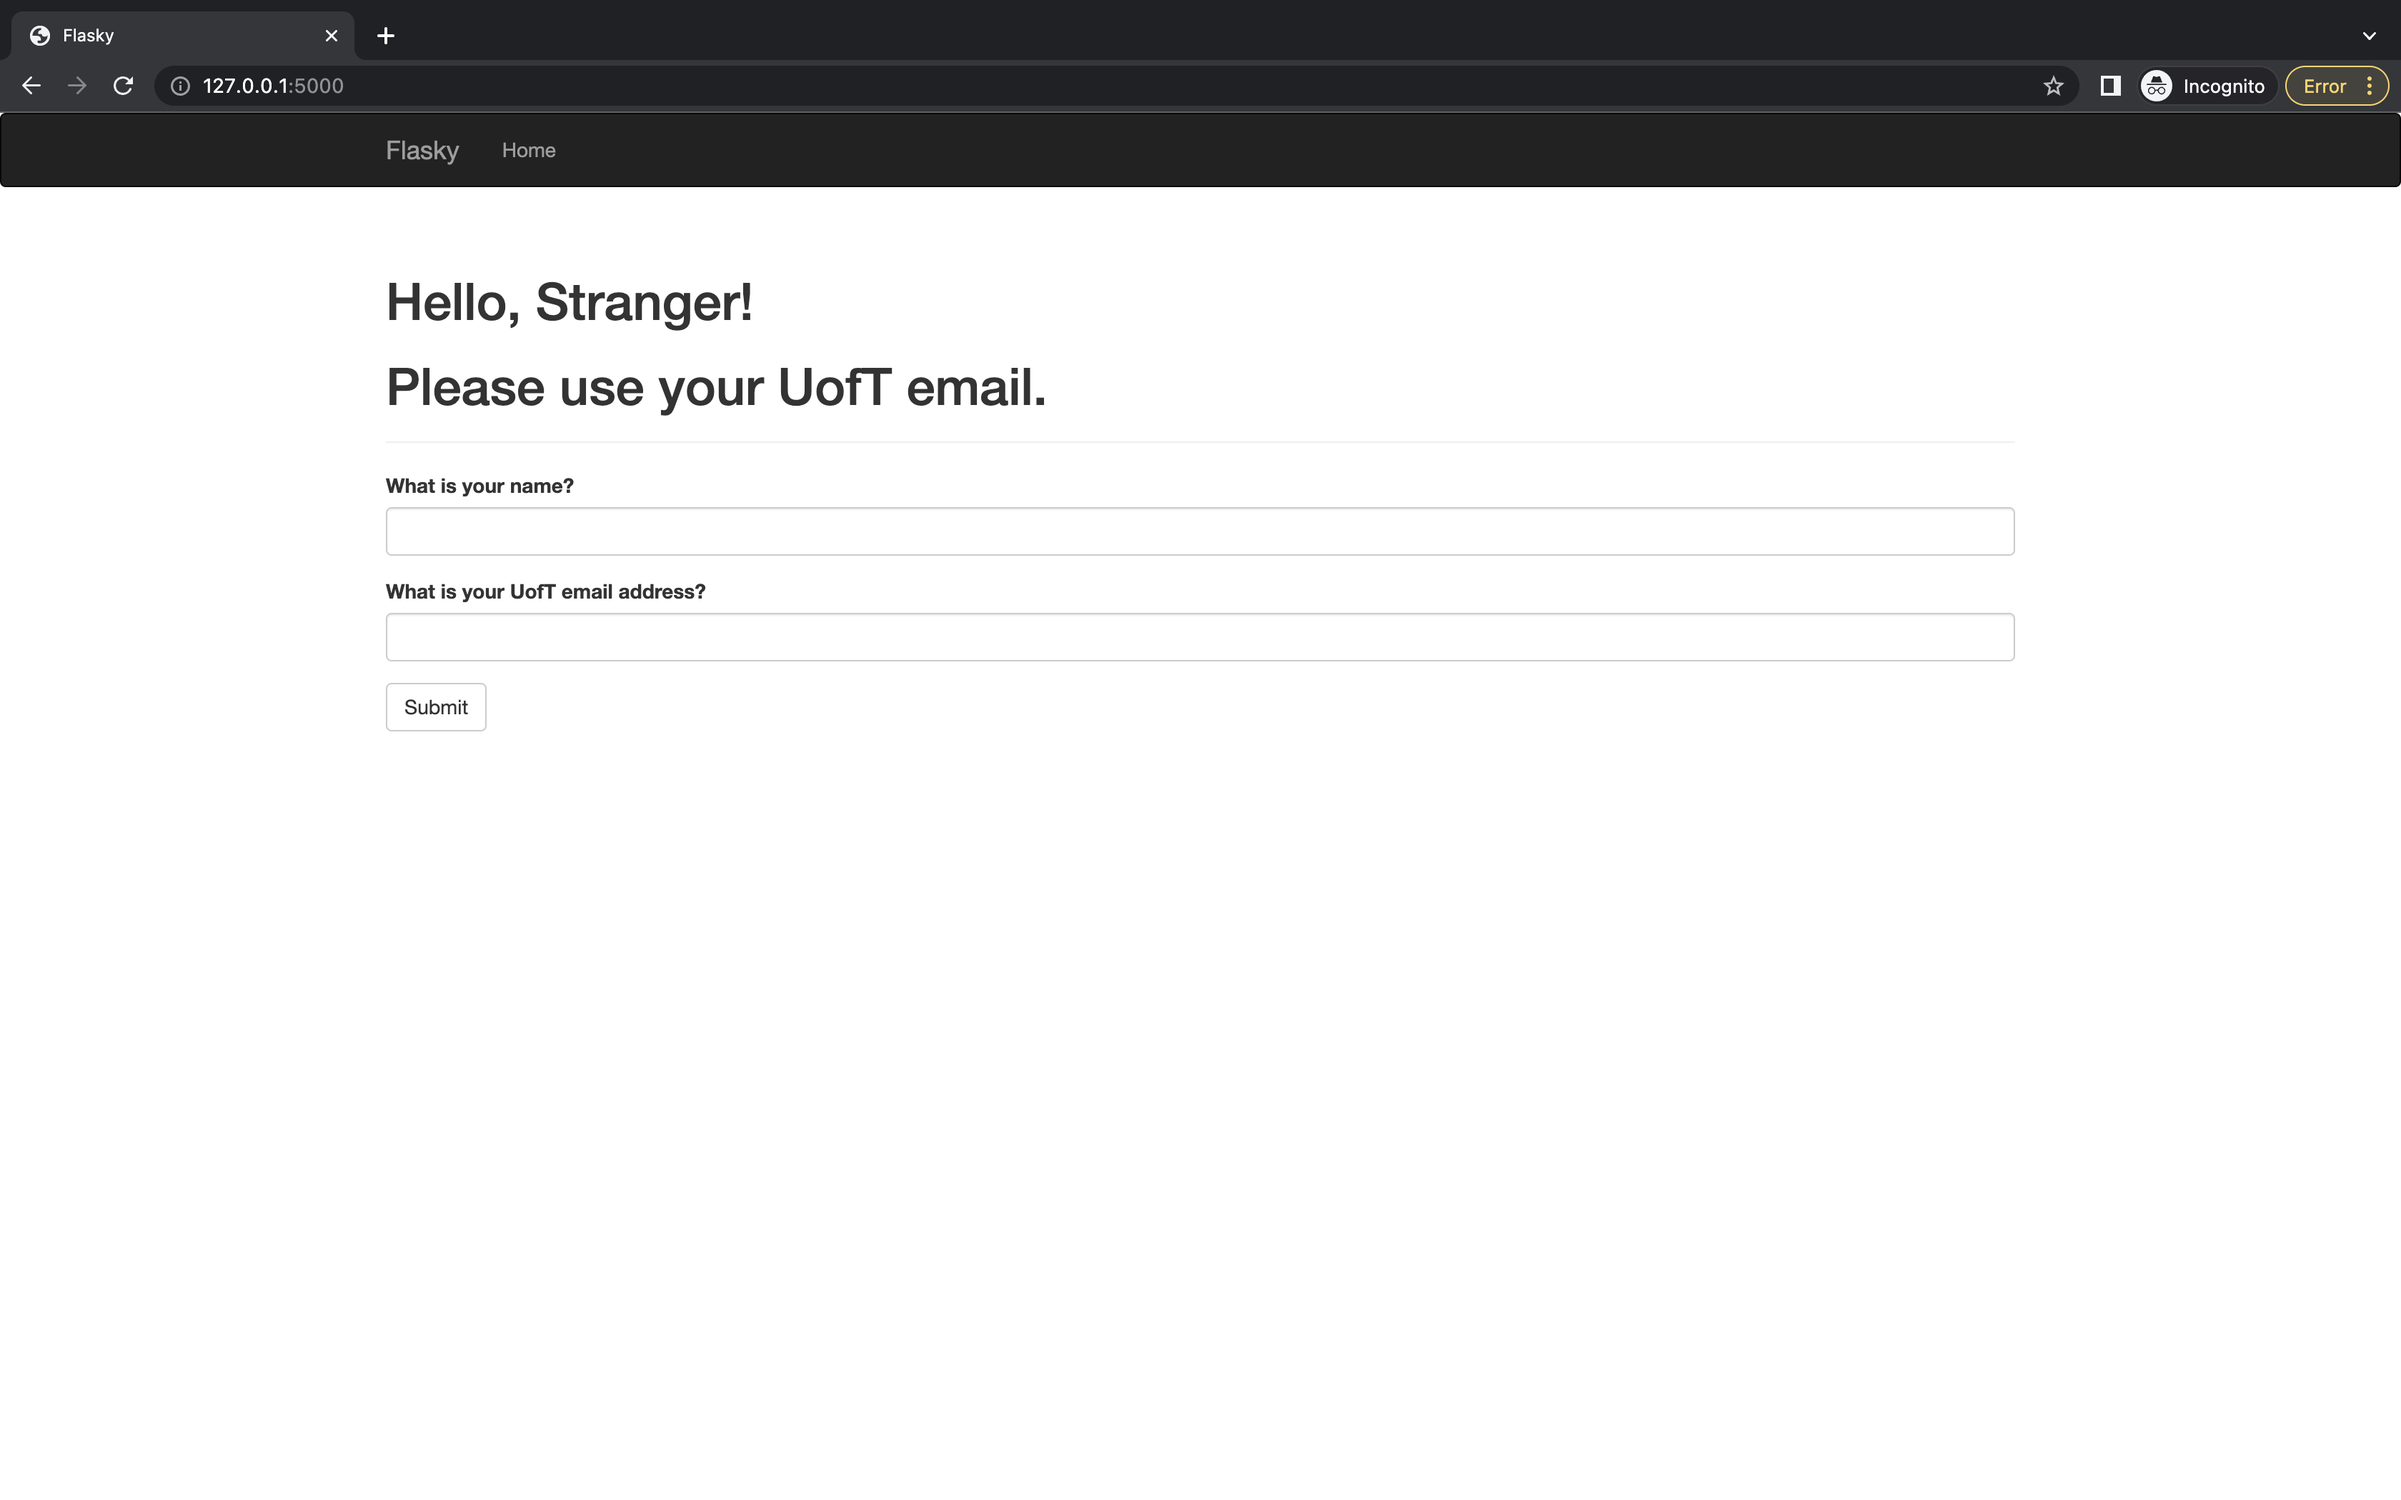
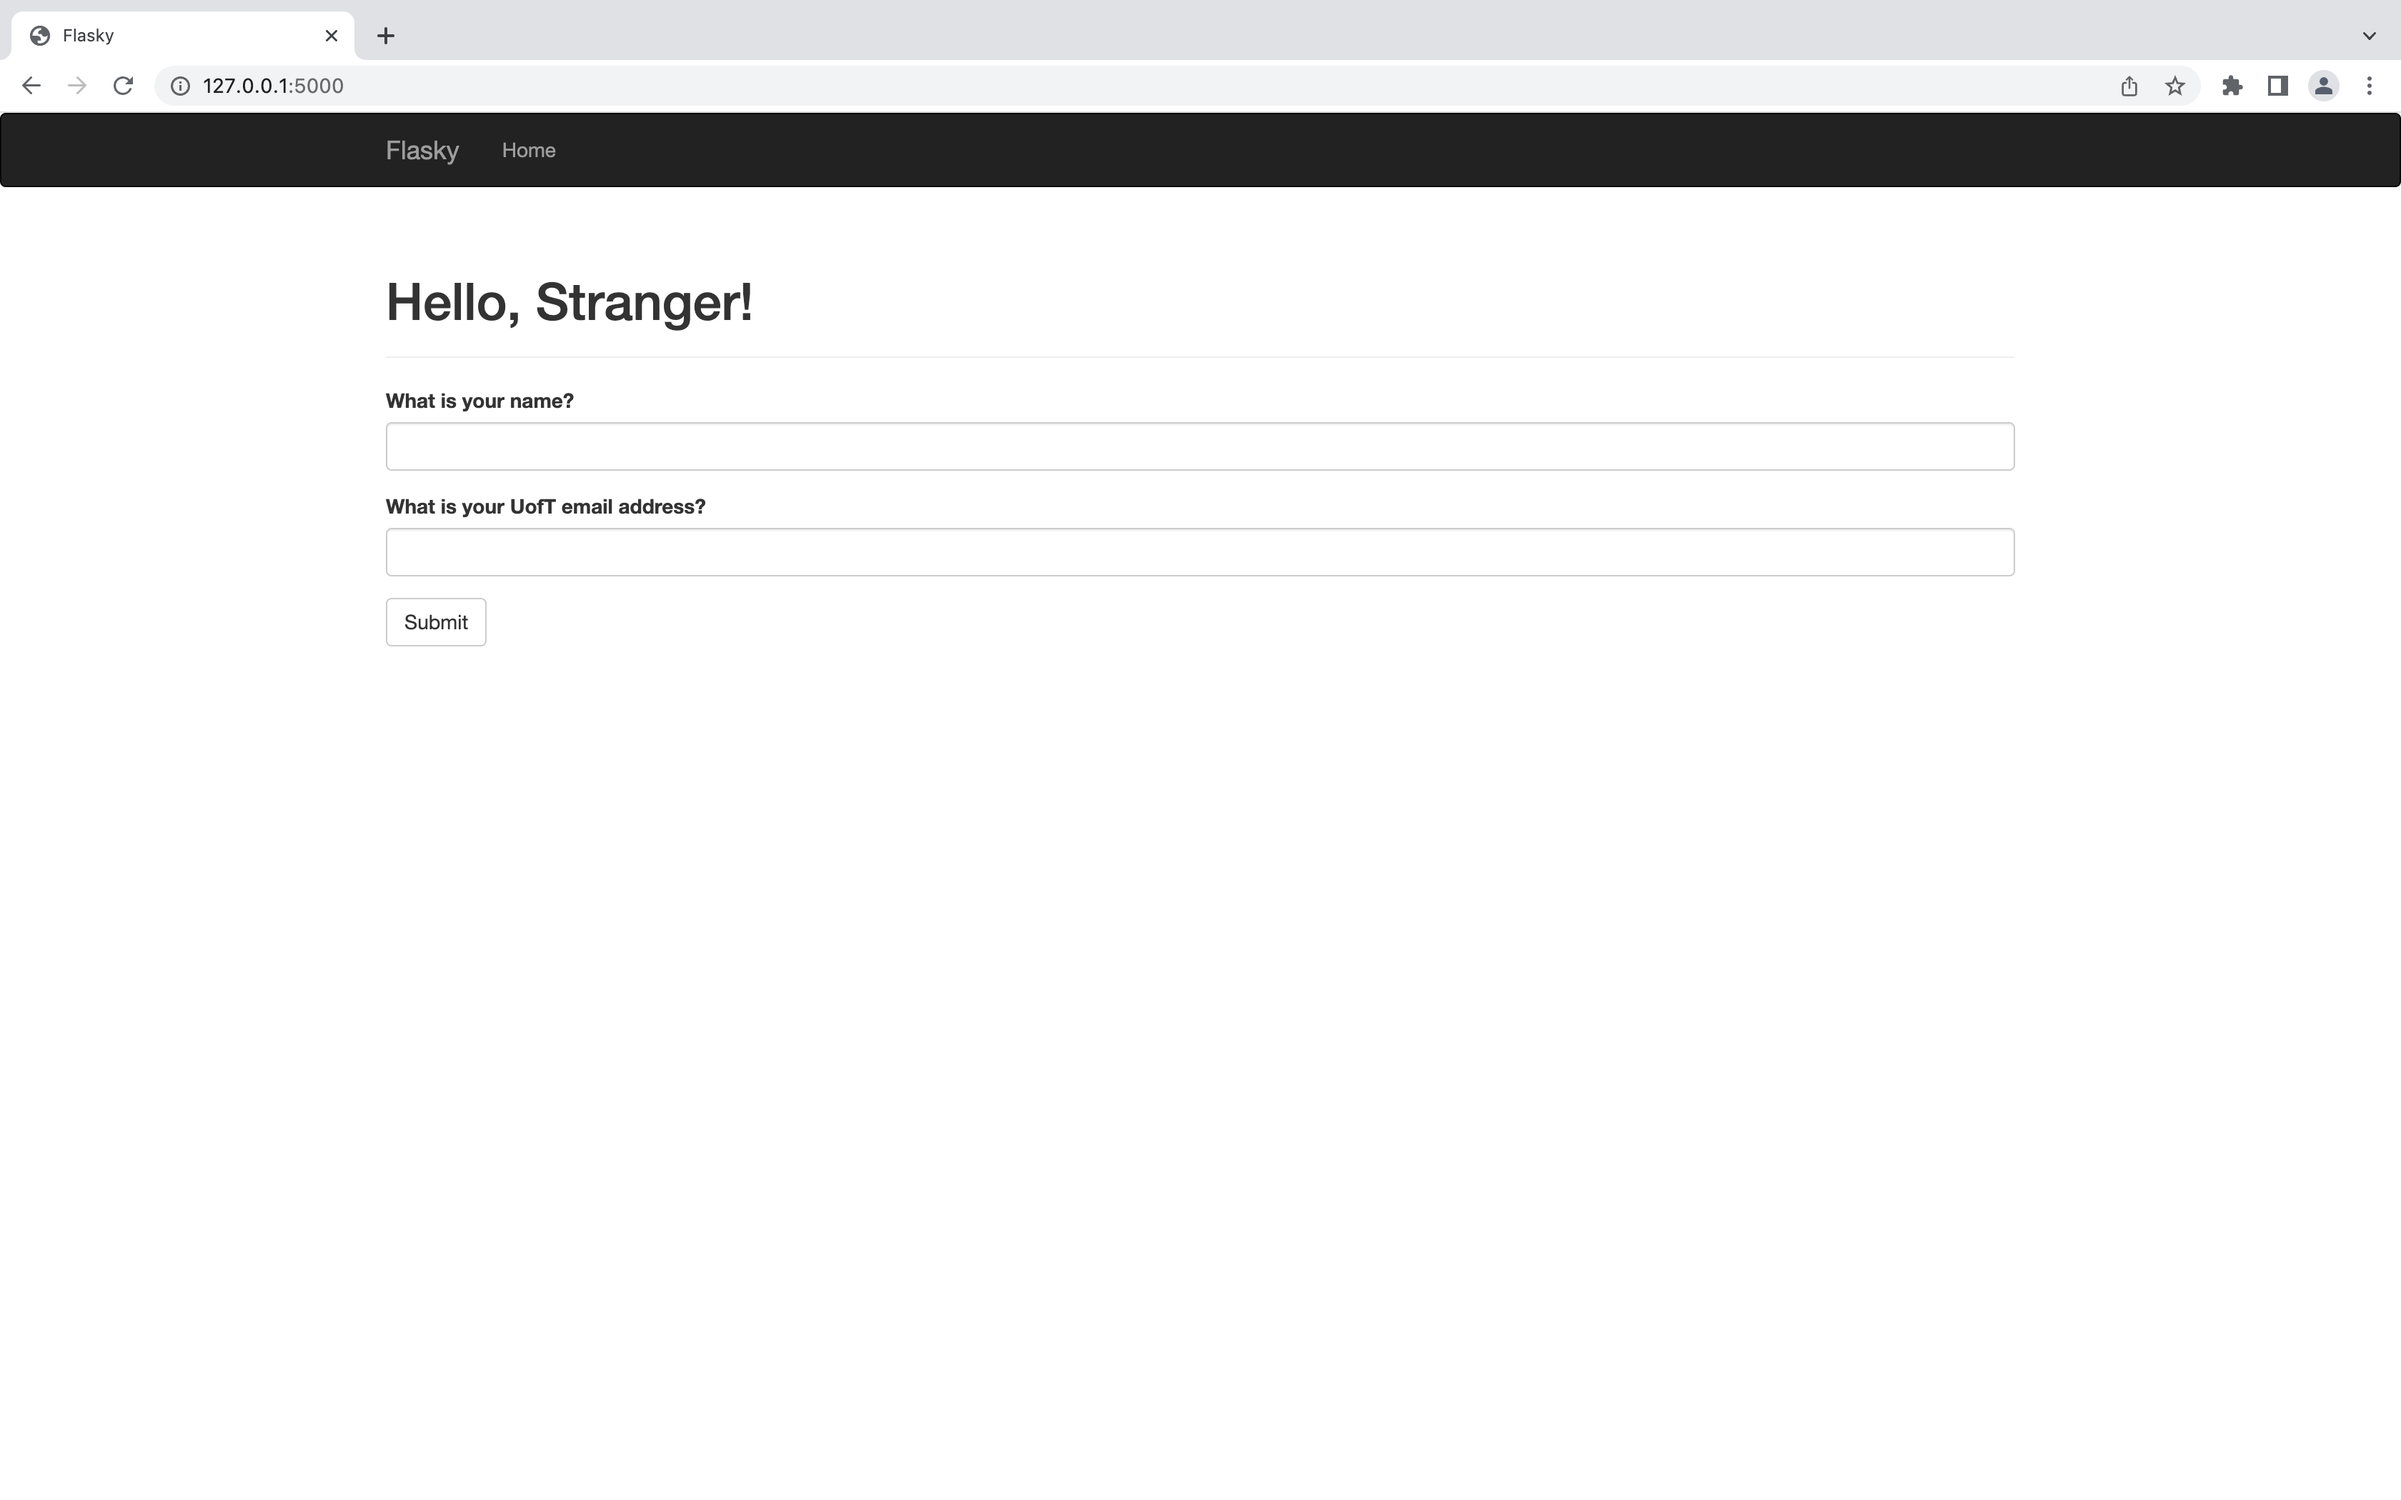
update screenshots for activity 4

diff --git a/templates/index.html b/templates/index.html
@@ -5,8 +5,14 @@
 
 {% block page_content %}
 <div class="page-header">
-    <h1>Hello, {% if name %}{{ name|capitalize }}{% else %}Stranger{% endif %}!</h1>
-    <h1>{% if email_address %}Your UofT email is {{email_address}}{% else %}Please use your UofT email.{% endif %}</h1>
+    <h1>Hello, {% if name %}{{ name }}{% else %}Stranger{% endif %}!</h1>
+    {% if email_address %}
+        {% if 'utoronto' in email_address %}
+            <h1>Your UofT email is {{email_address}}</h1>
+        {% else %}
+            <h1>Please use your UofT email.</h1>
+        {% endif %}
+    {% endif %}
 </div>
 {{ wtf.quick_form(form) }}
 {% endblock %}

diff --git a/hello.py b/hello.py
@@ -23,8 +23,6 @@ class UofTEmail:
             return
         if "@" not in field.data:
             message = field.gettext("Please include '@' in the email address. '{}'. is missing '@'.".format(field.data))
-        elif "utoronto" not in field.data:
-            message = field.gettext('Please use your UofT email address')
         else:
             message = self.message
 

diff --git a/README.md b/README.md
@@ -12,3 +12,6 @@ This repository is a clone of https://github.com/miguelgrinberg/flasky
 
 **Activity 4**
 ![Activity 4 Screenshot 1](./screenshot_5.png)
+![Activity 4 Screenshot 2](./screenshot_6.png)
+![Activity 4 Screenshot 3](./screenshot_7.png)
+![Activity 4 Screenshot 4](./screenshot_8.png)
